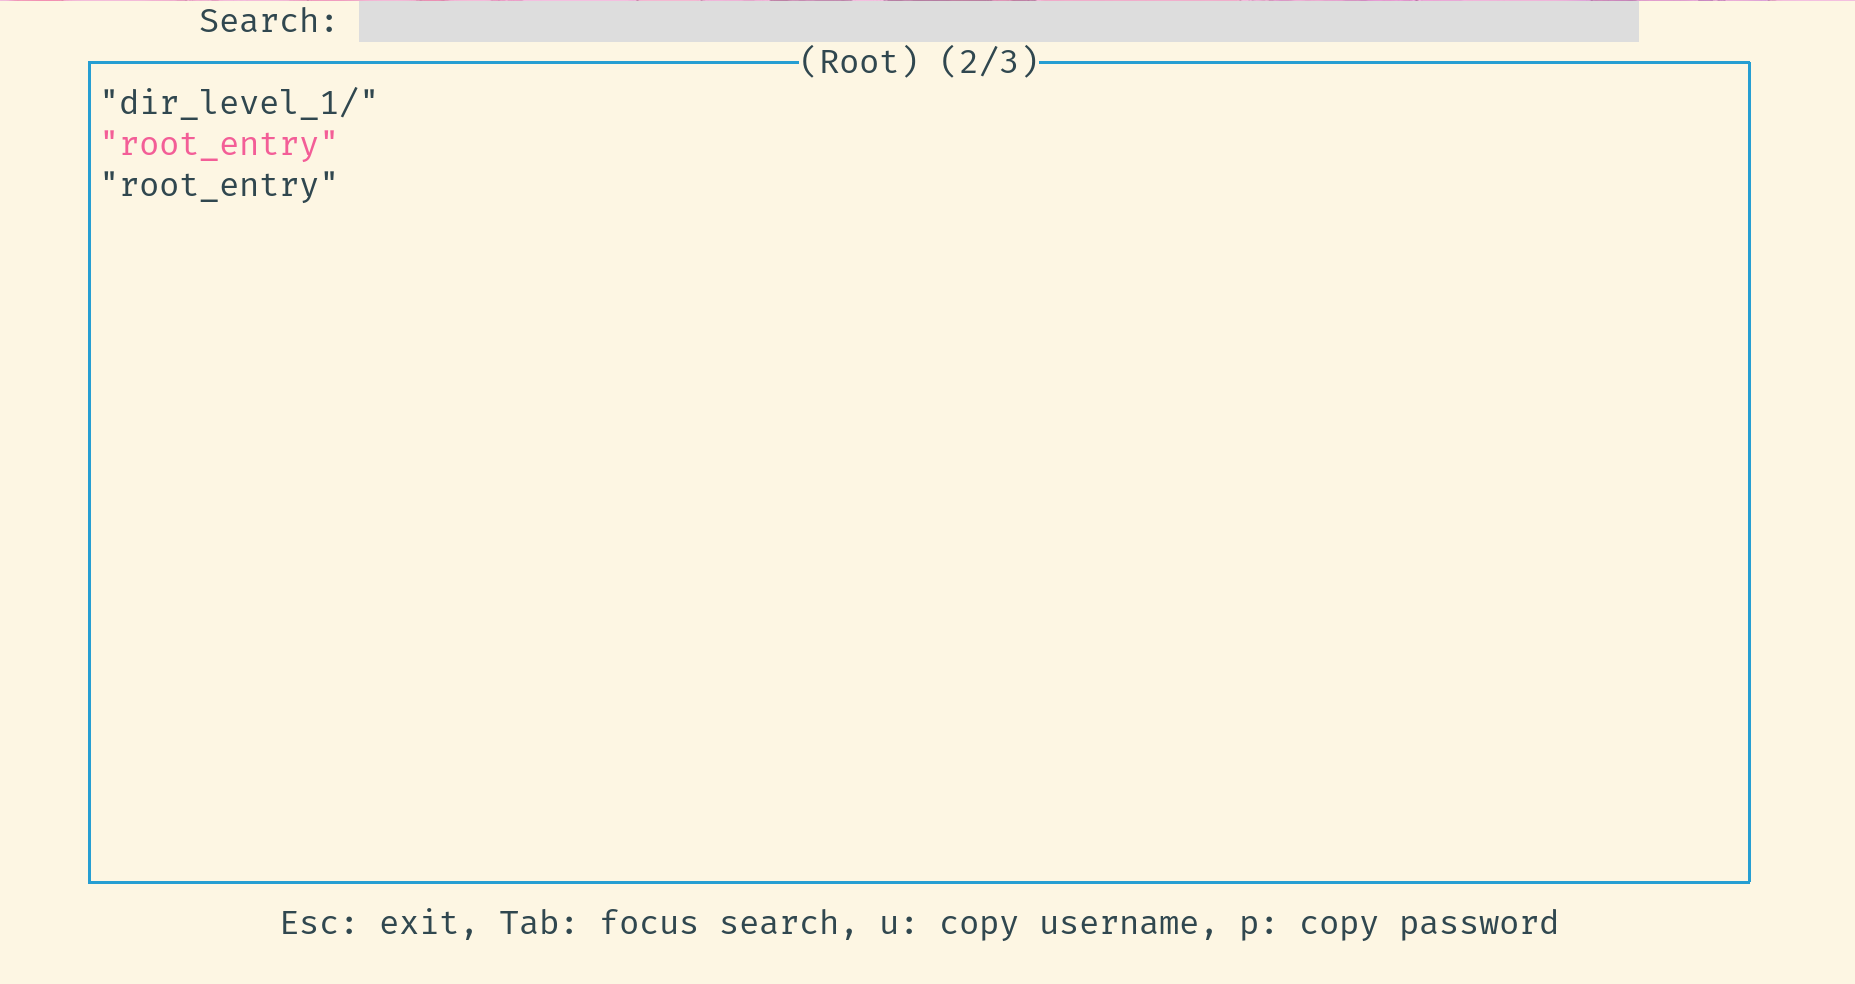
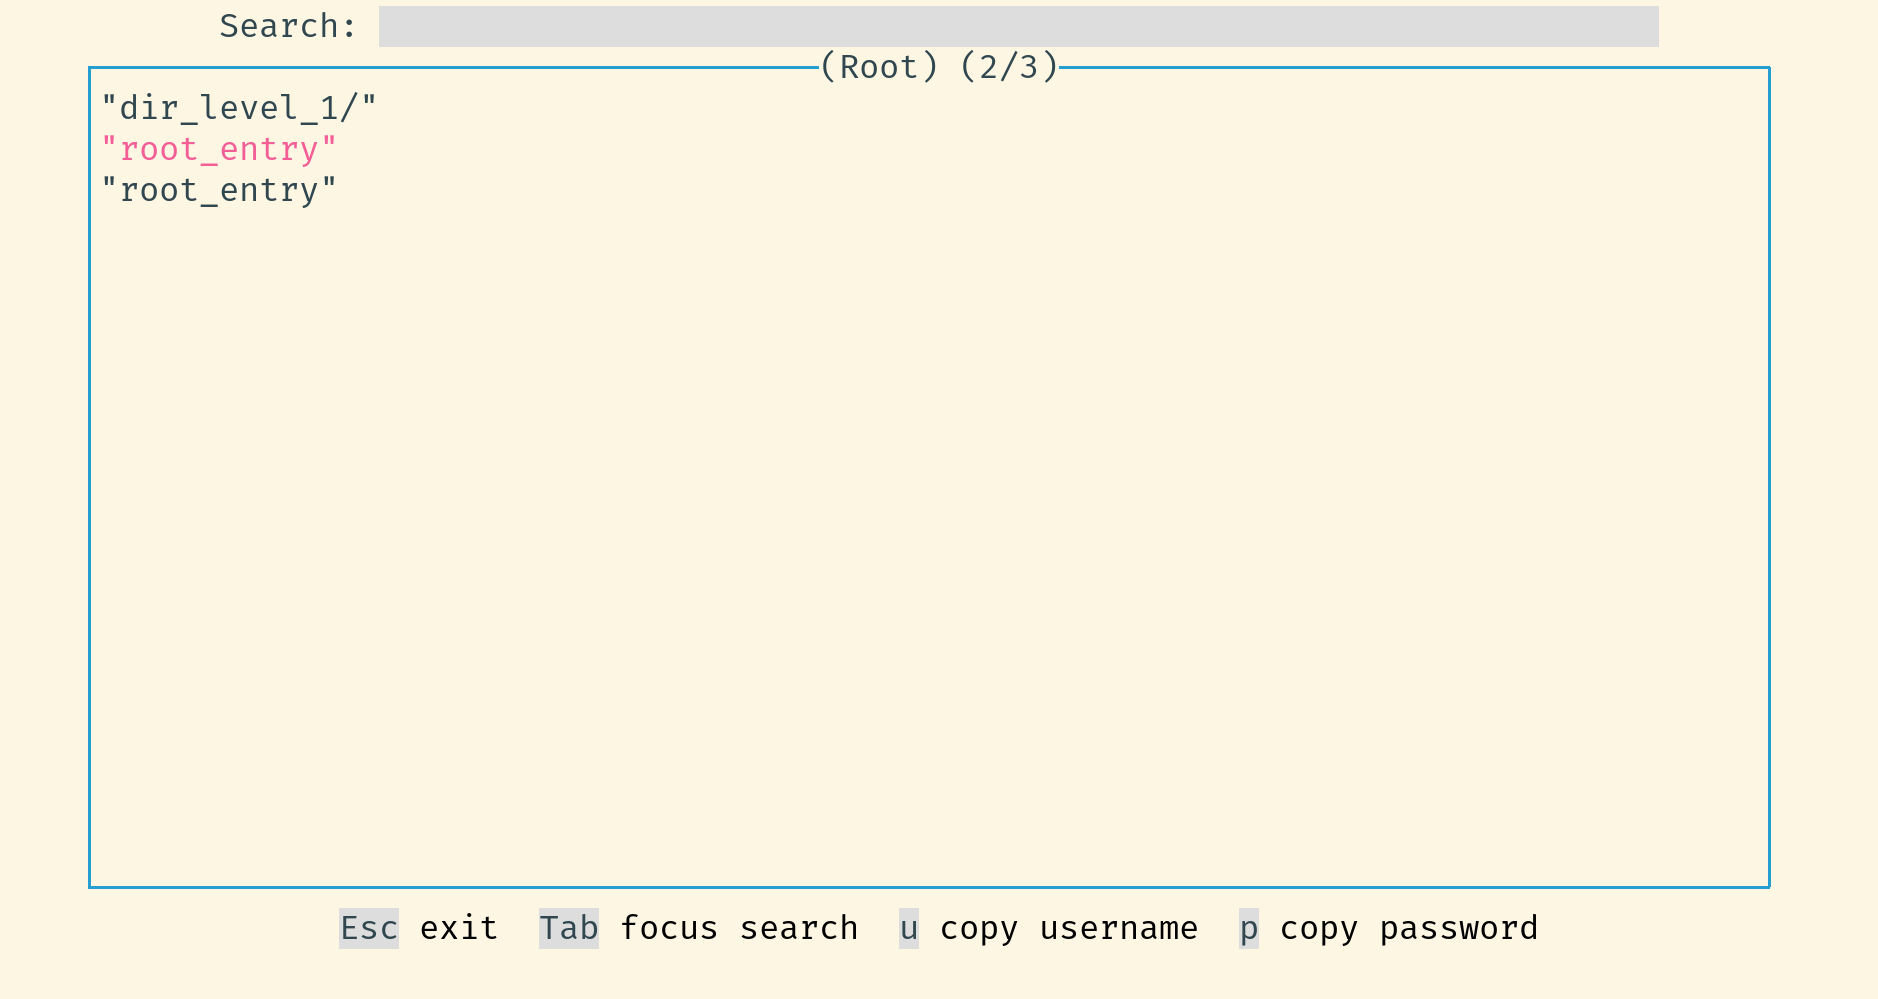
Update screenshots and add clear clipboard screenshot

Changed region(s): [[0.0307, 0.0, 0.9526, 0.2134], [0.0307, 0.8841, 0.9526, 0.9756]]

diff --git a/README.md b/README.md
@@ -12,6 +12,8 @@
 
 ![entry](pics/entry.png)
 
+![clear_clip](pics/clear_clip.png)
+
 # Features
 - Default database path using config file
 - Browse entries and navigate directories
